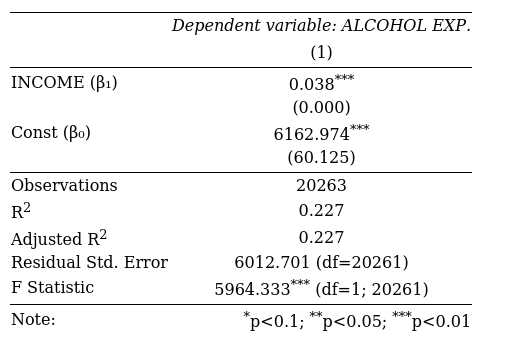
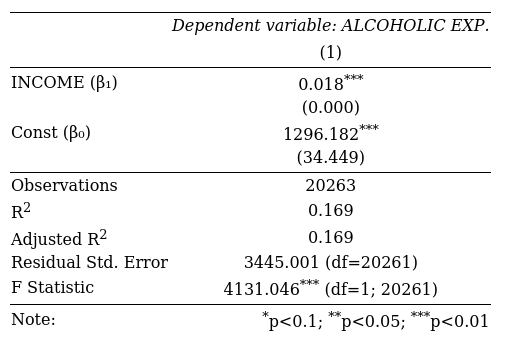
update hw

diff --git a/hw2/script.py b/hw2/script.py
@@ -72,7 +72,7 @@ newids_count = data['NEWID'].count()
 
 data = data[data['FINCBTXM'] > 0]
 
-desc = data.describe()
+desc = (data.describe()).T
 desc.to_excel('desc.xlsx')
 
 perf_lin_reg(data, 'FINCBTXM', 'TOTEXP', 'INCOME', 'TOTAL EXP.', 'inc_v_texp')
@@ -86,5 +86,5 @@ low_income_data = data[data['Inc_Cat'] == 'Low Income']
 
 perf_lin_reg(high_income_data, 'FINCBTXM', 'TOTEXP', 'INCOME', 'TOTAL EXP.', 'highinc_v_texp')
 perf_lin_reg(low_income_data, 'FINCBTXM', 'TOTEXP', 'INCOME', 'TOTAL EXP.', 'lowinc_v_texp')
-perf_lin_reg(data, 'FINCBTXM', 'FOOD', 'INCOME', 'FOOD EXP.', 'inc_v_foodexp')
-perf_lin_reg(data, 'FINCBTXM', 'FOOD', 'INCOME', 'ALCOHOL EXP.', 'inc_v_alcexp')
+perf_lin_reg(data, 'FINCBTXM', 'FDHOME', 'INCOME', 'FOOD HOME EXP.', 'inc_v_foodhomeexp')
+perf_lin_reg(data, 'FINCBTXM', 'FDAWAY', 'INCOME', 'FOOD AWAY EXP..', 'inc_v_foodawayexp')
